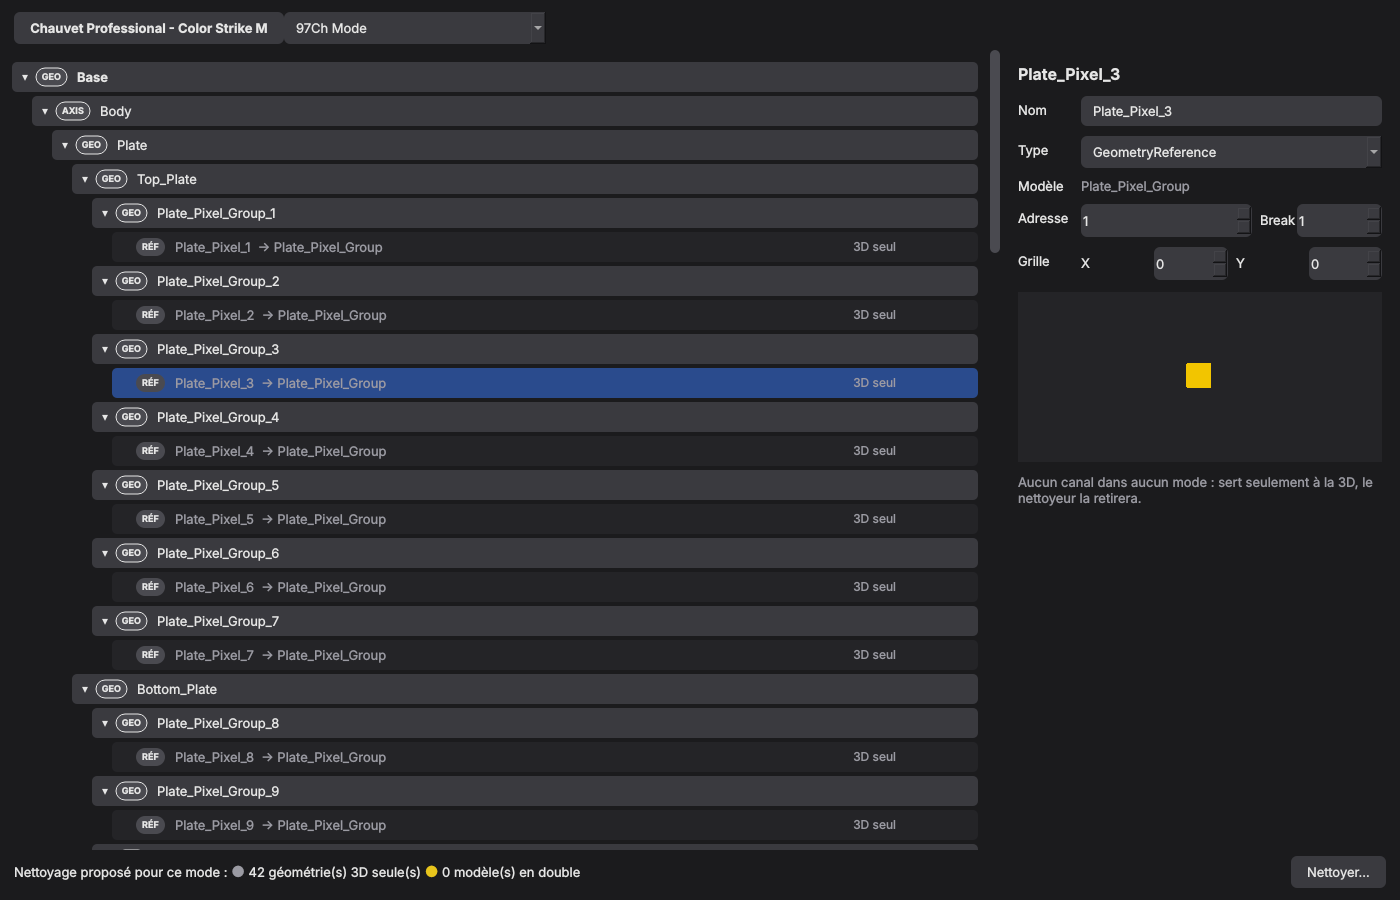
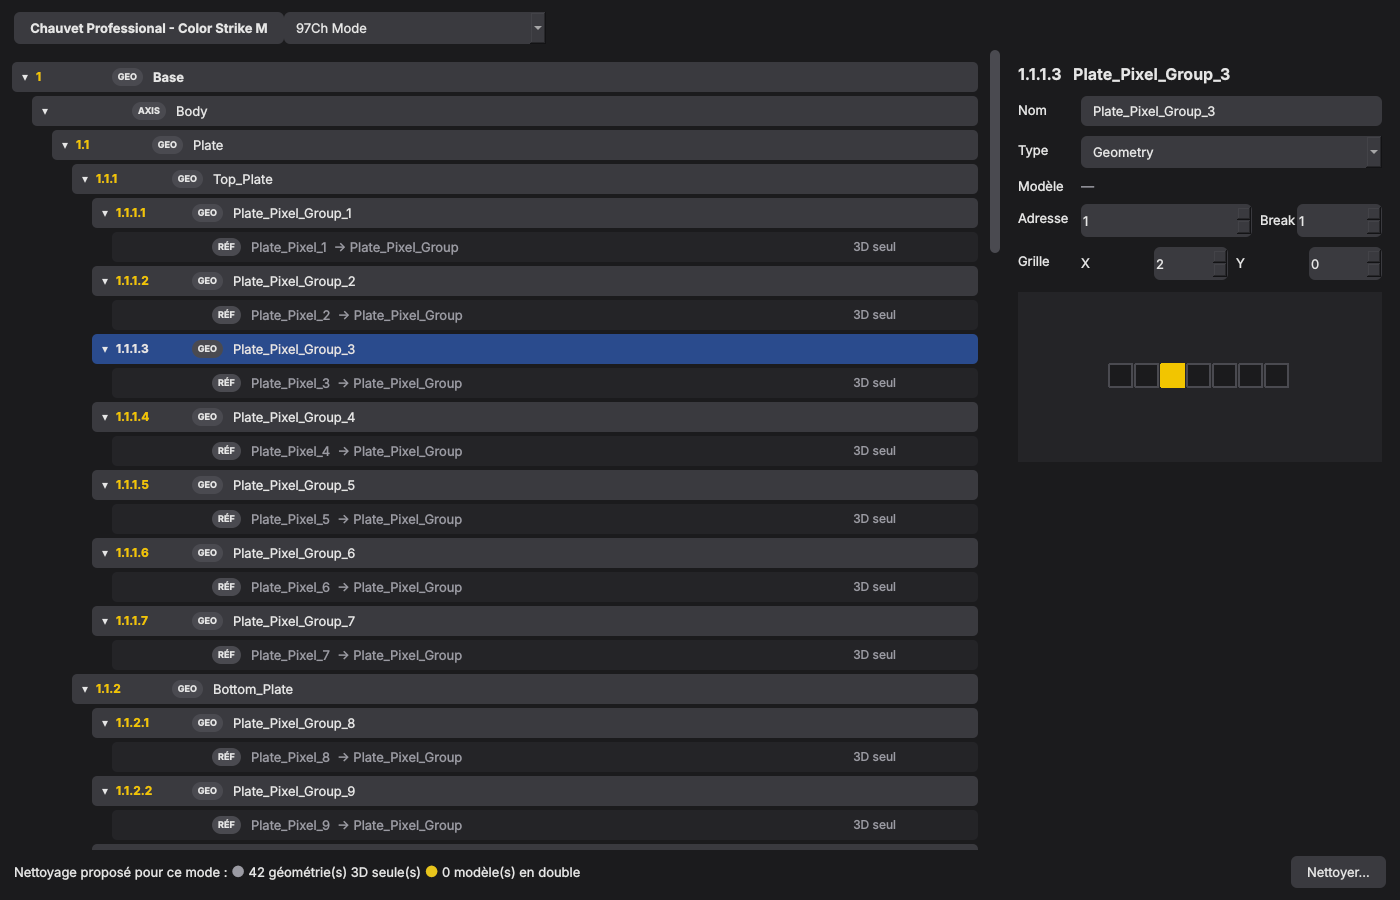
Atelier : numéros de sélection MA3 (1.x.x.x) sur chaque géométrie
Seules les géométries qui portent des canaux en ont un, comme sur la
console (les niveaux sans canal et les Axis se fondent dans le parent).

Claude-Session: https://claude.ai/code/session_01VXLFy6YJdhieVnJkNbezre

diff --git a/src/ma3lib/gui/atelier.py b/src/ma3lib/gui/atelier.py
@@ -18,7 +18,7 @@ from PySide6.QtWidgets import (QApplication, QComboBox, QFileDialog, QFormLayout
                                QLabel, QLineEdit, QMainWindow, QPushButton, QScrollArea, QSpinBox,
                                QVBoxLayout, QWidget)
 
-from .. import diagnostic, gdtf
+from .. import compare, diagnostic, gdtf
 from ..gdtf import FixtureType, Geometry
 from . import theme
 
@@ -49,11 +49,14 @@ class GeoTree(QWidget):
         self.doubles: set[str] = set()
         self.collapsed: set[int] = set()
         self.current: Optional[Geometry] = None
+        self.idents: dict[str, str] = {}
         self._rows: list[_Row] = []
         self._hover: Optional[_Row] = None
 
-    def set_root(self, root, useless: set[str], doubles: set[str]) -> None:
+    def set_root(self, root, useless: set[str], doubles: set[str],
+                 idents: Optional[dict[str, str]] = None) -> None:
         self.root, self.useless, self.doubles = root, useless, doubles
+        self.idents = idents or {}  # nom de géométrie -> numéro de sélection MA3 (1.x.x.x)
         self.collapsed = set()
         self.current = root
         self._relayout()
@@ -108,11 +111,18 @@ class GeoTree(QWidget):
                 p.drawText(QRectF(x - 2, r.rect.top(), 14, ROW_H), Qt.AlignCenter,
                            "▸" if id(g) in self.collapsed else "▾")
             x += 16
+            # numéro de sélection MA3 : seules les géométries qui portent des canaux en ont un
+            ident = self.idents.get(g.name, "")
+            p.setFont(theme.font(9, True))
+            p.setPen(theme.ACCENT if ident and not sel else theme.TEXT)
+            p.drawText(QRectF(x, r.rect.top(), 74, ROW_H), Qt.AlignVCenter | Qt.AlignLeft, ident)
+            x += 76
             # pastille de type
             badge = BADGE.get(g.kind, g.kind[:4].upper())
             p.setFont(theme.font(7, True))
             bw = p.fontMetrics().horizontalAdvance(badge) + 12
             br = QRectF(x, r.rect.center().y() - 9, bw, 18)
+            p.setPen(Qt.NoPen)
             p.setBrush(theme.STATUS["bleu"] if g.kind == "Beam" else theme.ROW_HOVER)
             p.drawRoundedRect(br, 9, 9)
             p.setPen(theme.TEXT)
@@ -247,10 +257,10 @@ class Params(QWidget):
         self.setStyleSheet(f"QLineEdit, QSpinBox {{ background: {theme.ROW.name()}; border: none;"
                            f" border-radius: 6px; padding: 6px 10px; }}")
 
-    def show_geo(self, g: Optional[Geometry], flag_3d: bool) -> None:
+    def show_geo(self, g: Optional[Geometry], flag_3d: bool, ident: str = "") -> None:
         if g is None:
             return
-        self.title.setText(g.name)
+        self.title.setText(f"{ident}   {g.name}" if ident else g.name)
         self.name.setText(g.name)
         self.kind.setCurrentText(g.kind if g.kind in TYPES else "Geometry")
         self.model.setText(g.reference or g.model or "—")
@@ -343,7 +353,9 @@ class AtelierWindow(QMainWindow):
             return
         mode = self.ft.mode(self.modes.currentText())
         root = self.ft.top_level(mode.geometry) if mode else None
-        self.tree.set_root(root, self.useless, self.doubles)
+        inst = compare.instances(self.ft, mode) if mode else None
+        idents = {i.name: i.ident for i in compare.flatten(inst)}
+        self.tree.set_root(root, self.useless, self.doubles, idents)
         names = {g.name for g in root.walk()} if root else set()
         n3d = len(names & self.useless)
         refs = {g.reference for g in root.walk() if g.is_reference} if root else set()
@@ -354,7 +366,8 @@ class AtelierWindow(QMainWindow):
             f"   {dot(theme.STATUS['jaune'].name())} {ndbl} modèle(s) en double")
 
     def _select(self, g) -> None:
-        self.params.show_geo(g, g is not None and g.name in self.useless)
+        self.params.show_geo(g, g is not None and g.name in self.useless,
+                             self.tree.idents.get(g.name, "") if g is not None else "")
 
 
 def main(argv: list[str] | None = None) -> int:
